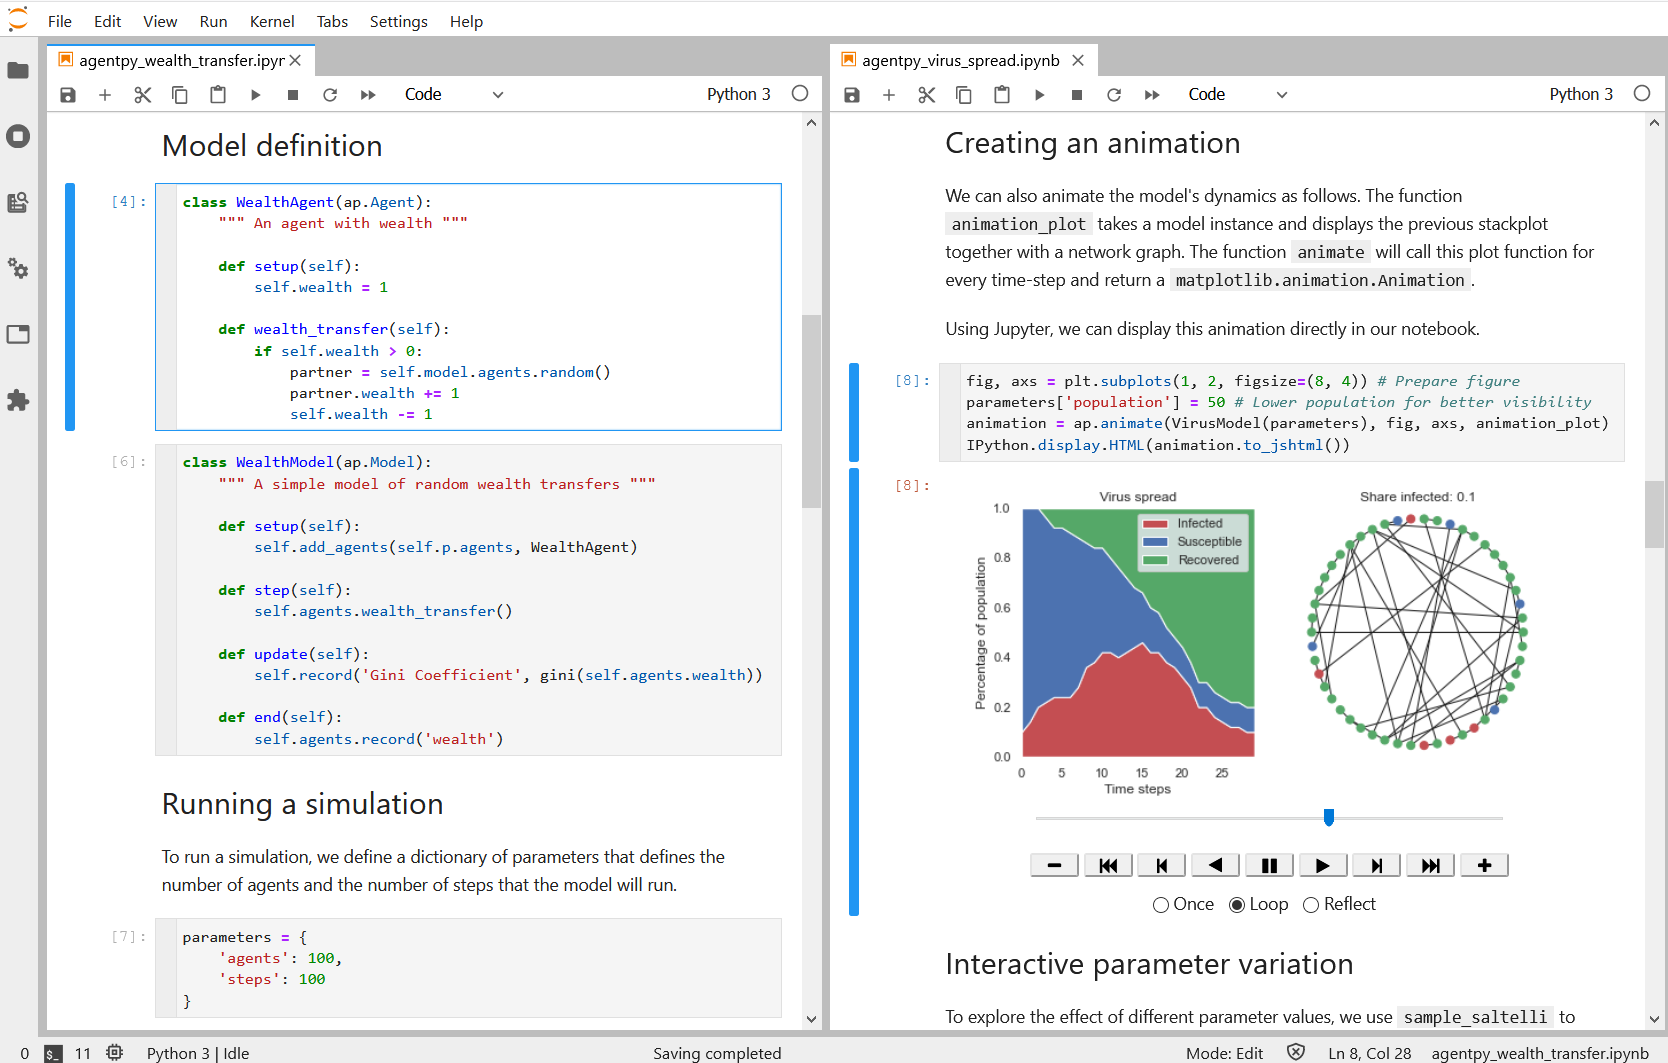
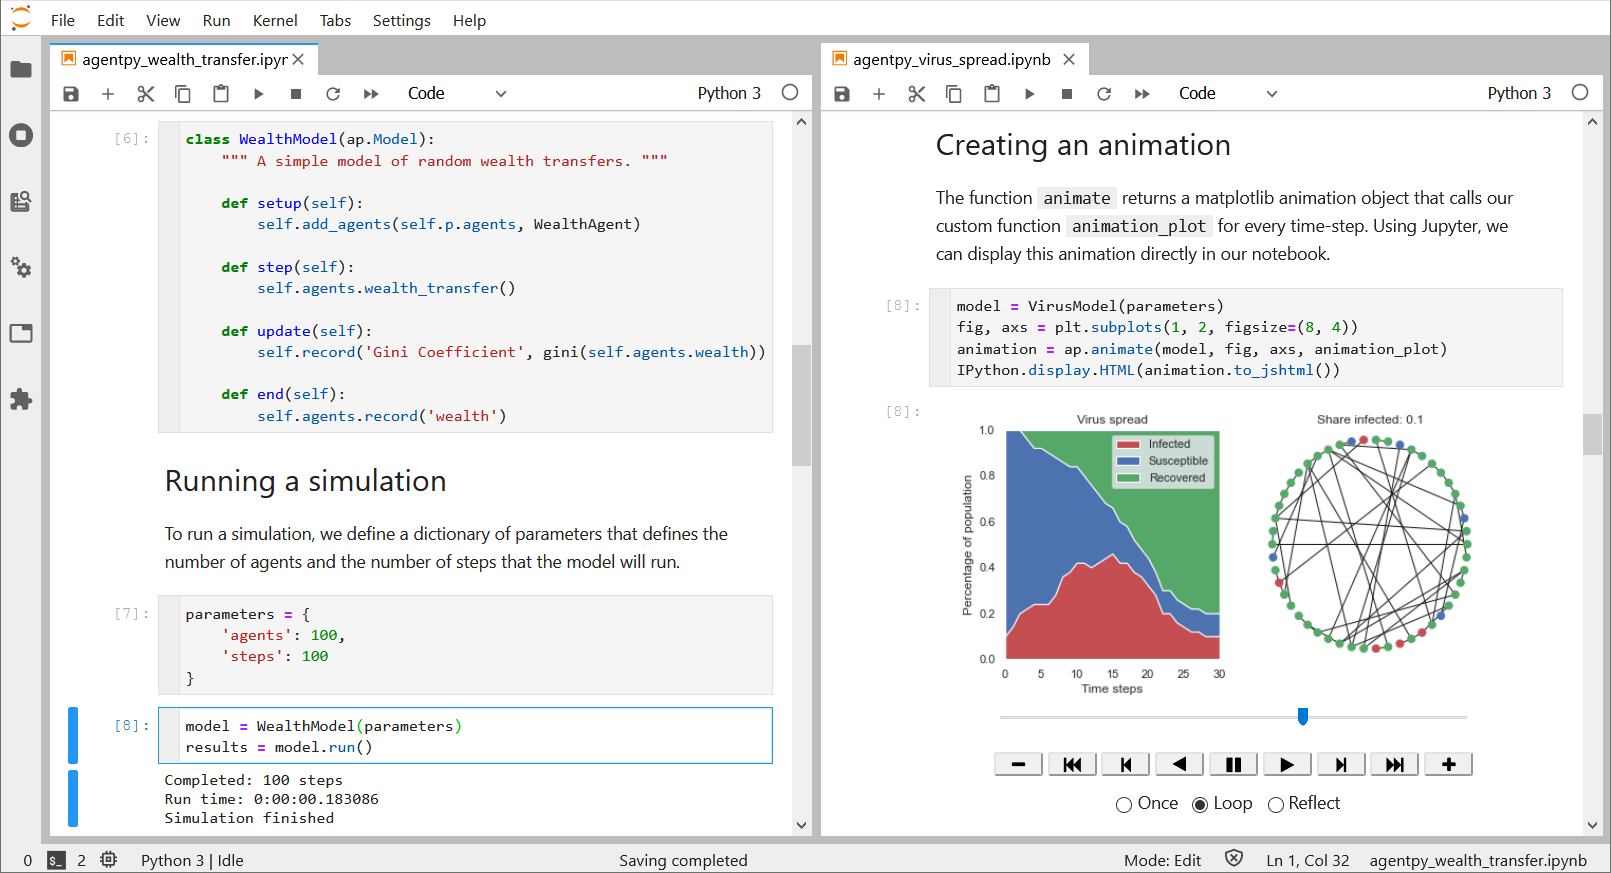
Update screenshot

Changed region(s): [[0.0, 0.0, 1.0, 1.0]]

diff --git a/docs/index.rst b/docs/index.rst
@@ -33,6 +33,14 @@ or subscribe to the `agentpy mailing list <https://groups.google.com/g/agentpy>`
 - For a detailled description of all classes and functions, refer to :doc:`reference`.
 - To learn how agentpy compares with other frameworks, take a look at :doc:`comparison`.
 
+.. rubric:: Example
+
+*A screenshot of Jupyter Lab with two interactive tutorials from the model library:*
+
+.. image:: agentpy_example.png
+  :width: 700
+  :alt: Screenshot of Jupyter Lab with two interactive tutorials from the model library
+
 .. rubric:: Main features
 
 *Aim 1:* Intelligent syntax for complex models

diff --git a/README.md b/README.md
@@ -23,6 +23,7 @@ or subscribe to the [agentpy mailing list](https://groups.google.com/g/agentpy).
 
 ---
 
-*Example of two Jupyter Notebooks from the agentpy model library.*
+*A screenshot of [Jupyter Lab](https://jupyter.org/) with two interactive tutorials from the 
+[agentpy model library](https://agentpy.readthedocs.io/en/latest/model_library.html):*
 
 ![](docs/agentpy_example.png)
